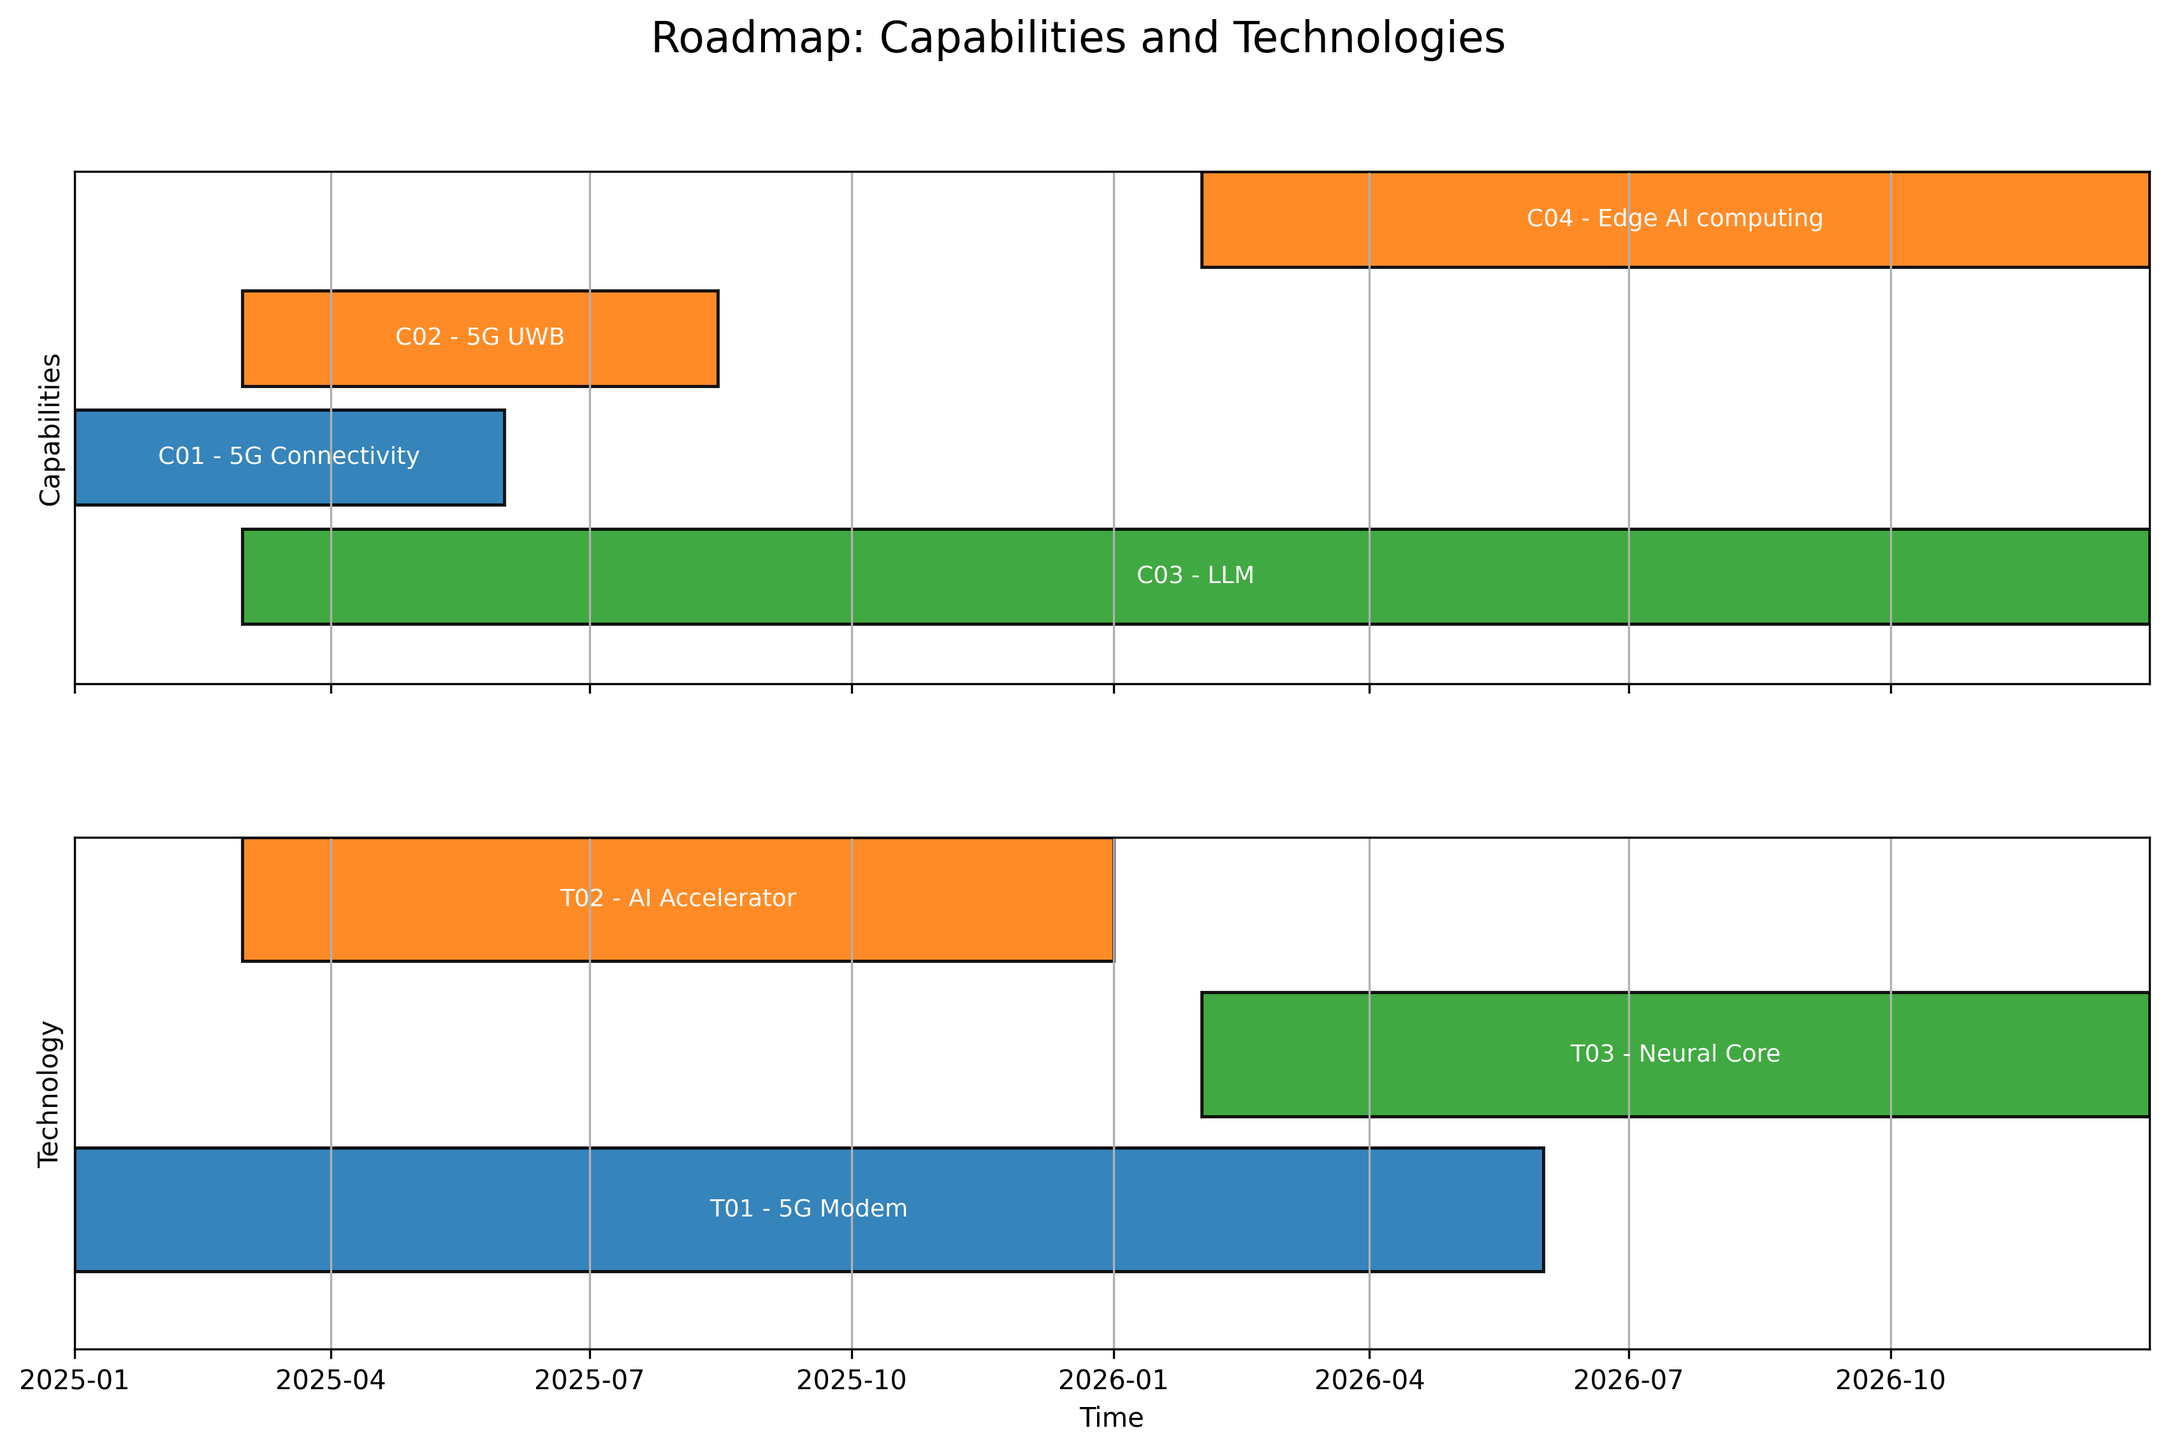
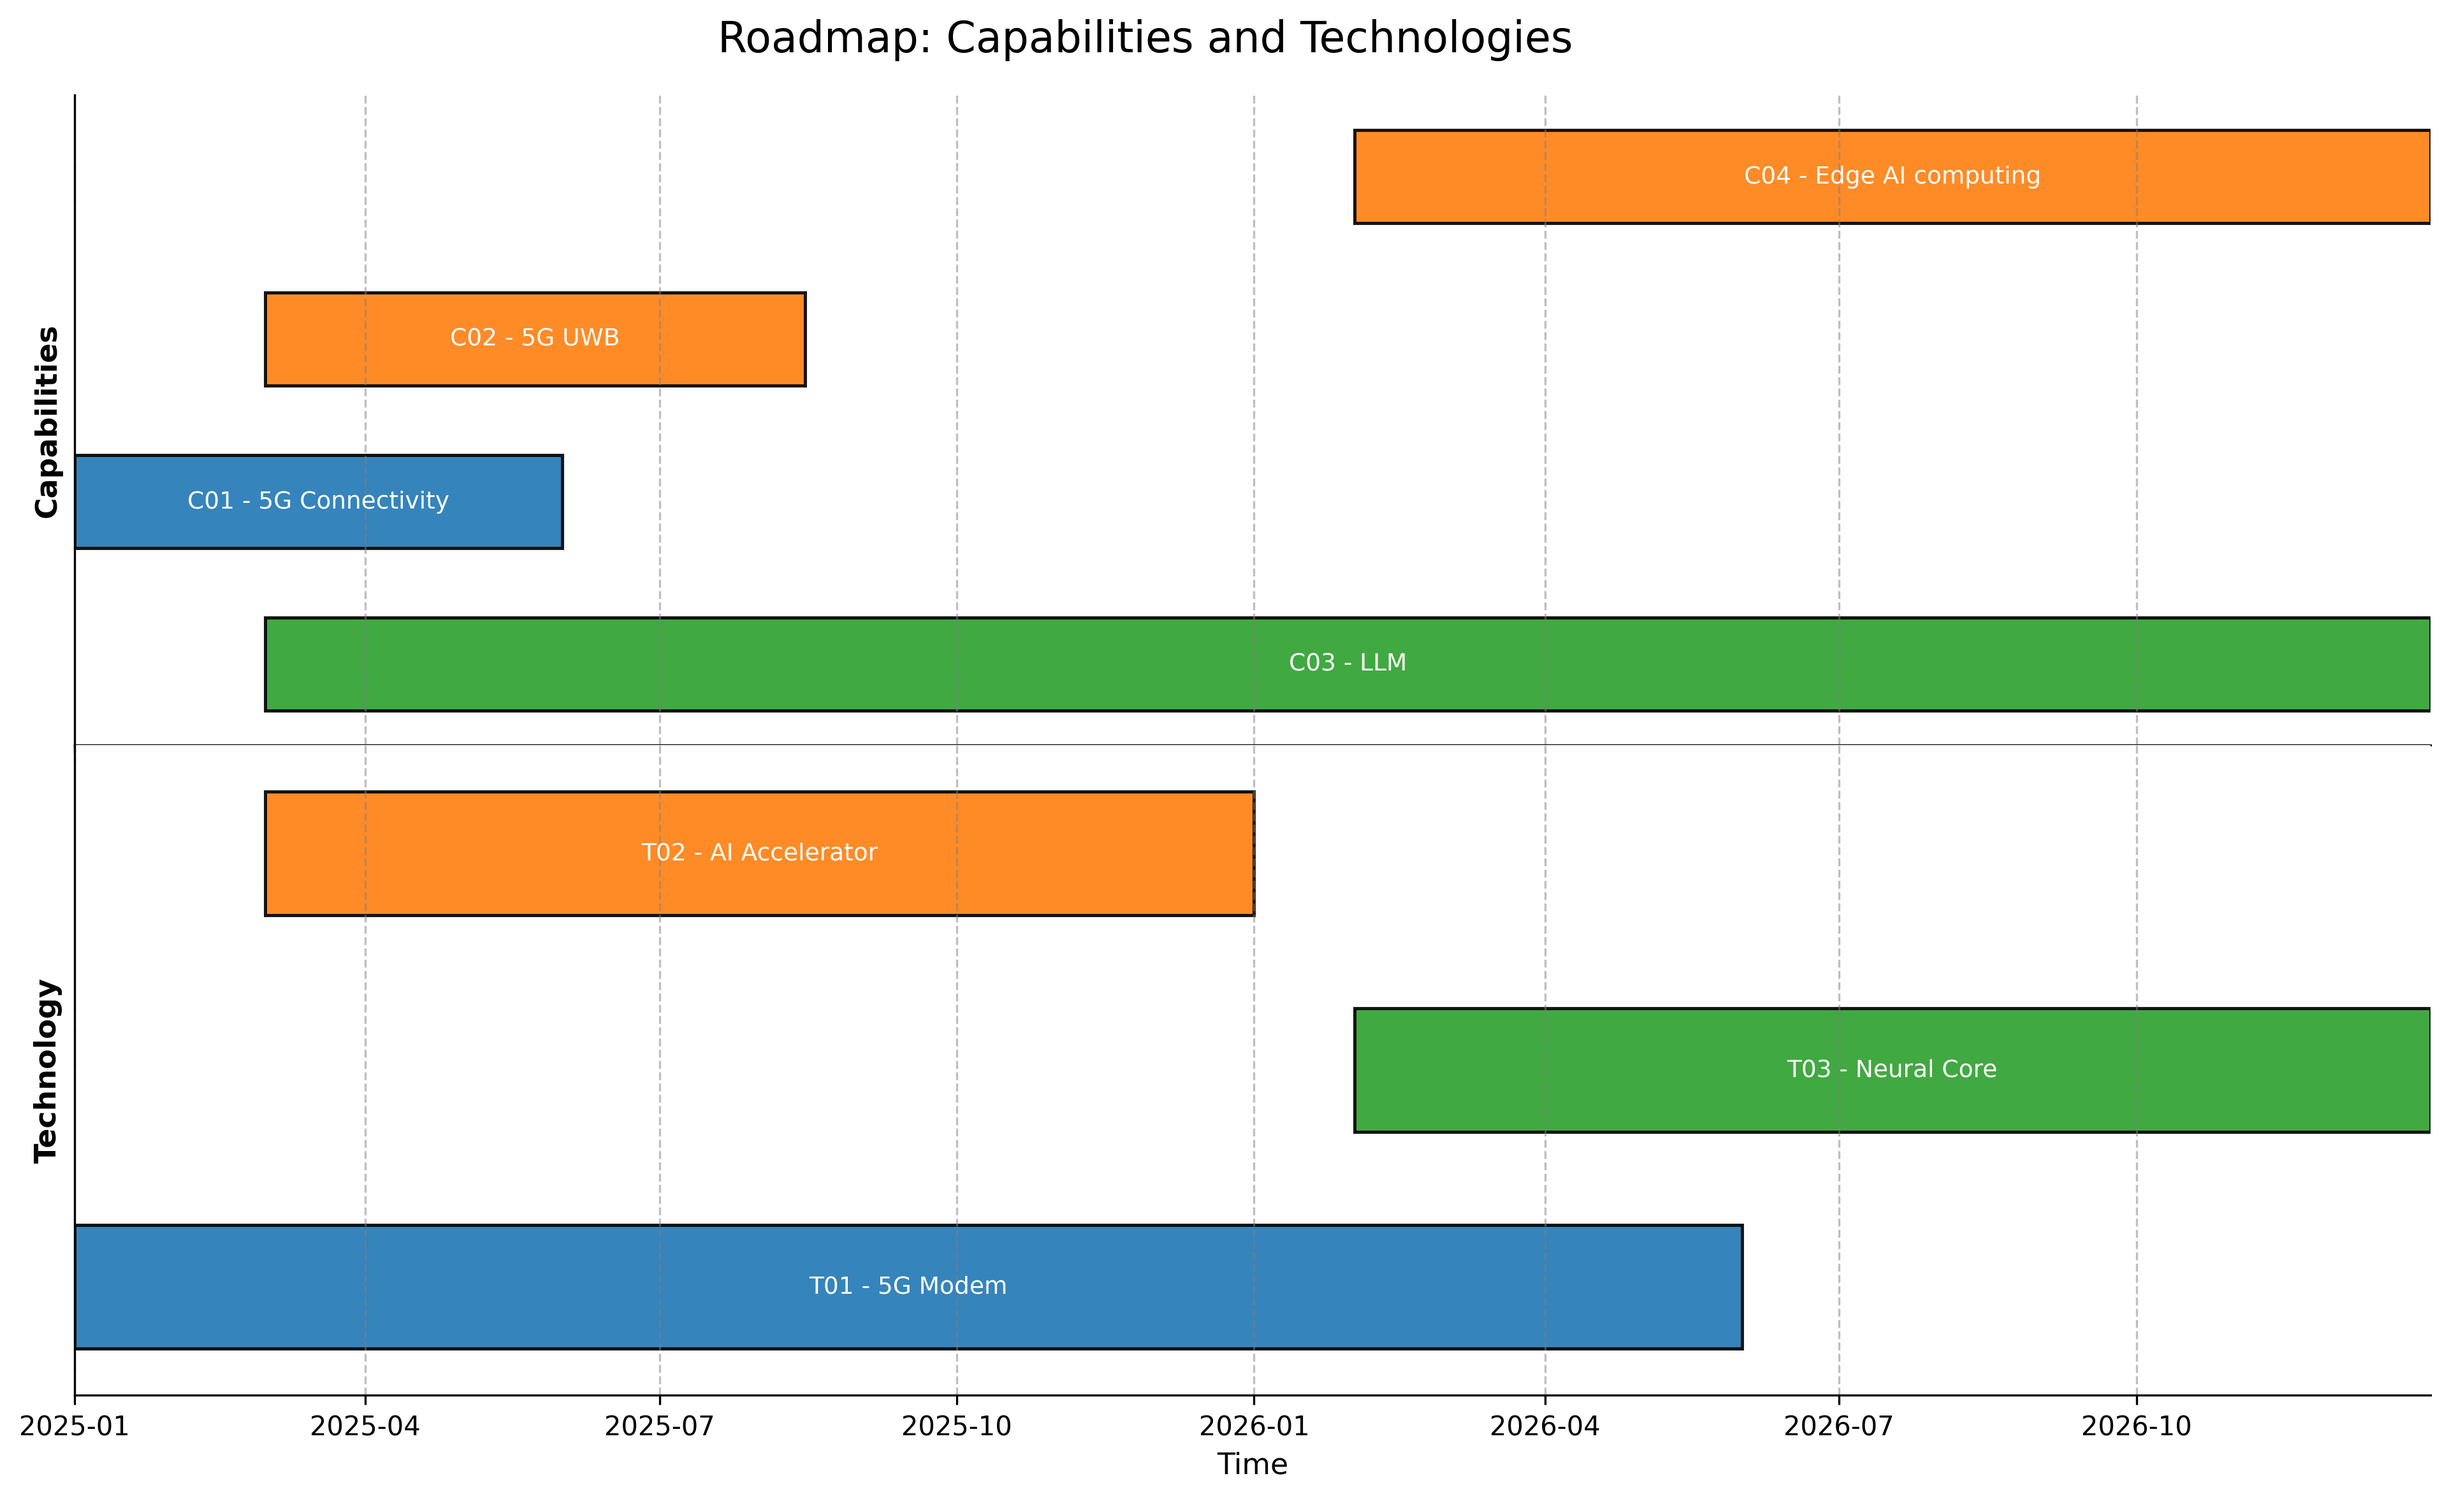
Improved bar graphing

diff --git a/main.py b/main.py
@@ -1,6 +1,8 @@
 import pandas as pd
 import matplotlib.pyplot as plt
 import matplotlib.patches as patches
+from matplotlib.dates import date2num
+
 
 def load_roadmap_data(filename):
     tech_df = pd.read_excel(filename, sheet_name="Technology")
@@ -10,64 +12,92 @@ def load_roadmap_data(filename):
         df['Start Date'] = pd.to_datetime(df['Start Date'])
         df['End Date'] = pd.to_datetime(df['End Date'])
 
+    tech_df['Layer'] = 'Technology'
+    cap_df['Layer'] = 'Capabilities'
+
     return tech_df, cap_df
 
-def plot_layer(ax, df, title):
-    df = df.sort_values(by='Impact Rating')  # Lower ratings drawn first
+
+def plot_layer(ax, df, title, bar_height):
+    df = df.sort_values(by='Impact Rating')
     position_tracker = {}
 
-    # Assign vertical positions
     for idx, row in df.iterrows():
         label = f"{row['ID']} - {row['Name']}"
         if label not in position_tracker:
             position_tracker[label] = len(position_tracker)
 
+    spacing = 0.35  # reduce to bring bars closer
     total_tracks = len(position_tracker)
-    ax.set_ylim(-0.5, total_tracks - 0.2)  # Ensure all bars fit
+    ax.set_ylim(-spacing / 2, (total_tracks - 1) * spacing + spacing / 2)
+
+    bar_positions = {}
 
     for idx, row in df.iterrows():
         start = row['Start Date']
         end = row['End Date']
         label = f"{row['ID']} - {row['Name']}"
         color = row.get('Color', '#1f77b4')
-        y = position_tracker[label]
+        y = position_tracker[label] * spacing  # apply spacing
+
+        bar_positions[row['ID']] = {
+            'x_start': start,
+            'x_center': start + (end - start) / 2,
+            'y': y,
+            'layer': title
+        }
 
         ax.add_patch(patches.Rectangle(
-            (start, y),
+            (start, y - bar_height / 2),
             end - start,
-            0.8,
-            facecolor=color,  # fixed warning
+            bar_height,
+            facecolor=color,
             edgecolor='black',
             linewidth=1.2,
             alpha=0.9
         ))
 
-        ax.text(start + (end - start) / 2, y + 0.4, label,
+        ax.text(start + (end - start) / 2, y, label,
                 ha='center', va='center', fontsize=9, color='white')
 
     ax.set_yticks([])
-    ax.set_ylabel(title)
-    ax.grid(True, axis='x')
+    ax.set_ylabel(title, rotation=90, fontsize=11, labelpad=10, weight='bold', va='center')
+    ax.grid(True, axis='x', linestyle='--', color='gray', alpha=0.5)
+
+    return bar_positions
+
 
 def plot_roadmap(tech_df, cap_df):
-    fig, (ax1, ax2) = plt.subplots(2, 1, figsize=(14, 8), sharex=True, gridspec_kw={'height_ratios': [1, 1]})
+    fig, (ax1, ax2) = plt.subplots(
+        2, 1,
+        figsize=(14, 8),
+        sharex=True,
+        gridspec_kw={'height_ratios': [1, 1], 'hspace': 0}
+    )
 
     overall_start = min(tech_df['Start Date'].min(), cap_df['Start Date'].min())
     overall_end = max(tech_df['End Date'].max(), cap_df['End Date'].max())
 
-    ax1.set_xlim([overall_start, overall_end])
-    ax2.set_xlim([overall_start, overall_end])
+    for ax in (ax1, ax2):
+        ax.set_xlim([overall_start, overall_end])
+        ax.tick_params(axis='x', which='both', bottom=True, top=False, labelbottom=False)
+        ax.spines['top'].set_visible(False)
+        ax.spines['bottom'].set_linewidth(0.8)
+        ax.spines['left'].set_linewidth(0.8)
+        ax.spines['right'].set_visible(False)
 
-    plot_layer(ax1, cap_df, "Capabilities")
-    plot_layer(ax2, tech_df, "Technology")
+    ax2.tick_params(axis='x', labelbottom=True)
 
-    ax2.set_xlabel("Time")
+    BAR_HEIGHT = 0.2
+    cap_pos = plot_layer(ax1, cap_df, "Capabilities", BAR_HEIGHT)
+    tech_pos = plot_layer(ax2, tech_df, "Technology", BAR_HEIGHT)
+
+    ax2.set_xlabel("Time", fontsize=11)
     fig.suptitle("Roadmap: Capabilities and Technologies", fontsize=16)
-
-    # Clean layout and save image
-    plt.subplots_adjust(hspace=0.3)
+    plt.subplots_adjust(left=0.1, right=0.98, top=0.93, bottom=0.08)
     plt.savefig("roadmap.png", dpi=300, bbox_inches='tight')
-    # plt.show()  # Optional: enable for GUI viewing
+    plt.show()
+
 
 # === Main Program ===
 if __name__ == "__main__":
